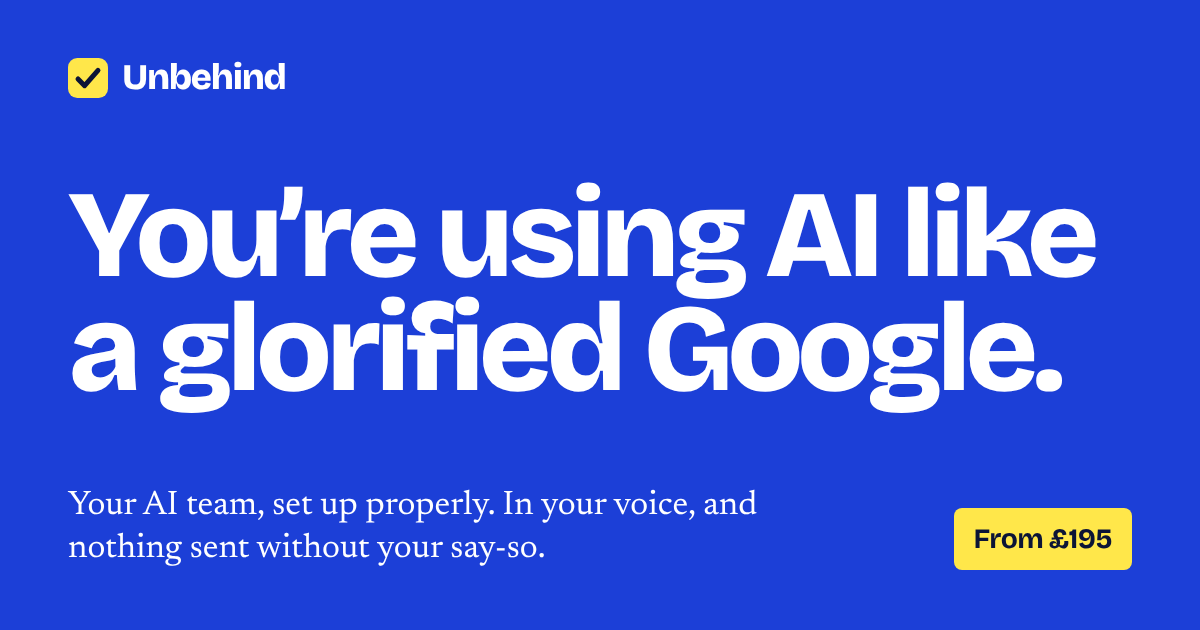
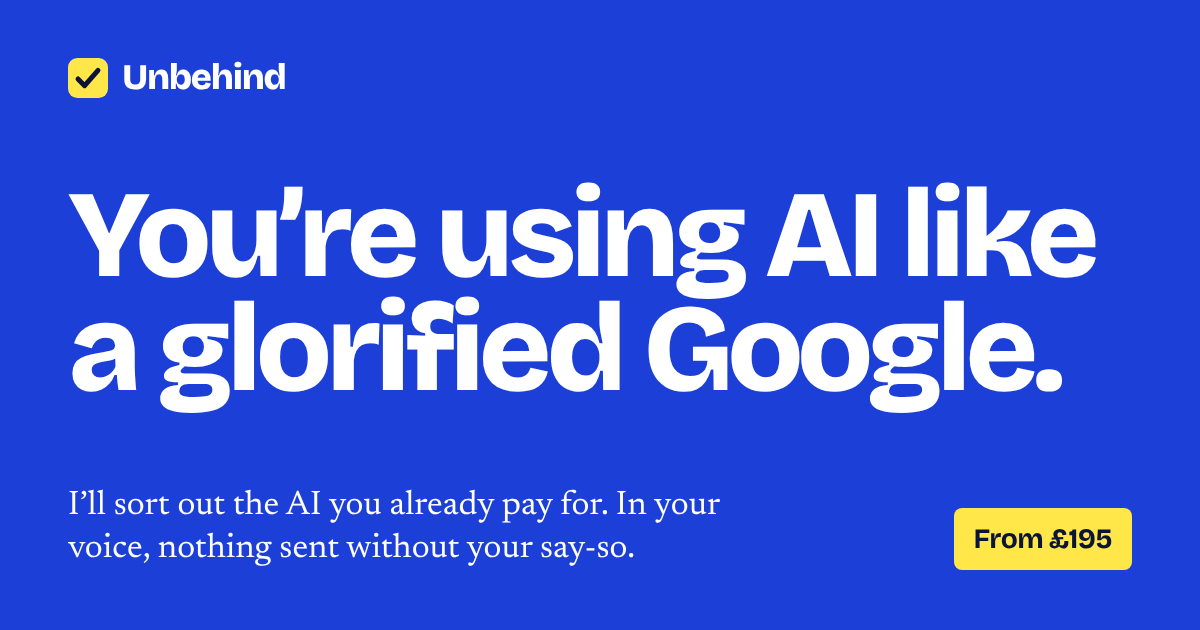
v14.1: lead with the AI people already pay for, cut the page by about a third
- Promise reframed: audit first, set up what the client already owns,
  only add a tool when it earns its subscription
- Roles list, long bio and six of ten FAQs removed; control section
  cut to three points; problems cut to three lines
- Bio trimmed to two paragraphs
- New OG line to match

Claude-Session: https://claude.ai/code/session_01EZ7UPLewCeCGtFvGg8F1Cy

Changed region(s): [[0.0617, 0.7841, 0.6475, 0.9048]]

diff --git a/index.html b/index.html
@@ -3,13 +3,13 @@
 <head>
 <meta charset="UTF-8">
 <meta name="viewport" content="width=device-width, initial-scale=1.0">
-<title>Unbehind - Your AI team, set up properly. From £195.</title>
+<title>Unbehind - I'll sort out the AI you already pay for. From £195.</title>
 
-<meta name="description" content="You're using AI like a glorified Google. I set up a small team of AI assistants on your own accounts: they know your work, draft in your voice, and never send a thing without your say-so. Live inside a week. From £195.">
+<meta name="description" content="You're using AI like a glorified Google. I set up the AI you already pay for so it knows your work, drafts in your voice, and never sends a thing without your say-so. Audit first. From £195.">
 <link rel="canonical" href="https://unbehind.ai">
 
 <meta property="og:title" content="You're using AI like a glorified Google.">
-<meta property="og:description" content="I set up a small team of AI assistants that knows your work, drafts in your voice, and never sends a thing without your say-so. Live inside a week. From £195.">
+<meta property="og:description" content="I'll sort out the AI you already pay for: it knows your work, drafts in your voice, and never sends a thing without your say-so. From £195.">
 <meta property="og:type" content="website">
 <meta property="og:url" content="https://unbehind.ai">
 <meta property="og:image" content="https://unbehind.ai/og.png">
@@ -19,7 +19,7 @@
 
 <meta name="twitter:card" content="summary_large_image">
 <meta name="twitter:title" content="You're using AI like a glorified Google.">
-<meta name="twitter:description" content="Your AI team, set up properly: on your accounts, in your voice, nothing sent without your say-so. From £195.">
+<meta name="twitter:description" content="I'll sort out the AI you already pay for. In your voice, nothing sent without your say-so. From £195.">
 <meta name="twitter:image" content="https://unbehind.ai/og.png">
 
 <meta name="theme-color" content="#1C3FD7">
@@ -404,6 +404,10 @@
     max-width: 30em;
   }
 
+  .control-grid.three { grid-template-columns: repeat(3, minmax(0, 1fr)); gap: 40px 48px; }
+  .covers { margin-top: 48px; padding-top: 28px; border-top: 2px solid var(--ink); max-width: 40em; }
+  .band-wash .questions, .questions { max-width: 860px; }
+
   /* steps */
 
   .steps {
@@ -549,7 +553,7 @@
     .brief-caption { text-align: left; }
     .split { grid-template-columns: 1fr; gap: 28px; }
     .team li { grid-template-columns: 1fr; gap: 8px; padding: 22px 0; }
-    .control-grid { grid-template-columns: 1fr; gap: 30px; }
+    .control-grid, .control-grid.three { grid-template-columns: 1fr; gap: 30px; }
     .steps { grid-template-columns: 1fr; gap: 36px; }
     .steps li::before { font-size: 64px; margin-bottom: 12px; }
     .price { grid-template-columns: 1fr; gap: 14px; padding: 26px 18px; }
@@ -619,12 +623,12 @@
   <header class="hero wrap">
     <div>
       <h1>You&rsquo;re using AI like a glorified Google.</h1>
-      <p class="lead">A few chats a day. The same background typed in again. Good ideas lost in old threads. I set you up with a small team of AI assistants that knows your work, drafts in your voice, and never sends a thing without your say-so.</p>
+      <p class="lead">You already pay for it: ChatGPT, Copilot, Gemini, Claude. I set up what you&rsquo;ve got so it knows your work, drafts in your voice, and never sends a thing without your say-so.</p>
       <div class="hero-actions">
         <a href="https://calendly.com/james-harrop/30min" target="_blank" rel="noopener" class="btn btn-yellow" id="hero-cta">Book a free call</a>
         <a href="#pricing" class="text-link">See the prices</a>
       </div>
-      <p class="hero-note">Fifteen minutes is usually enough. I&rsquo;ll share my screen and show you my own set-up, then tell you whether it&rsquo;s worth doing for you.</p>
+      <p class="hero-note">Free. Fifteen minutes is usually enough, and I&rsquo;ll tell you if you don&rsquo;t need me.</p>
     </div>
 
     <div class="brief-holder">
@@ -668,7 +672,7 @@
           </div>
         </div>
       </section>
-      <p class="brief-caption">An example. Go on, press one. Nothing goes until you do.</p>
+      <p class="brief-caption">What a good set-up hands you each morning. Go on, press one.</p>
     </div>
   </header>
 </div>
@@ -679,83 +683,49 @@
     <div class="wrap">
       <h2>Sound familiar?</h2>
       <ul class="familiar">
-        <li>Forty chats, and none of them knows about the others.</li>
+        <li>You pay for AI every month and use it like a search box.</li>
         <li>You explain who you are and what you do. Again.</li>
-        <li>You had a good idea on Tuesday. It&rsquo;s in a thread somewhere.</li>
-        <li>The tools can now read your inbox and reply from it. Which is exactly why you haven&rsquo;t switched them on.</li>
-        <li>It writes perfectly well. It just doesn&rsquo;t sound like you.</li>
+        <li>It can read your inbox now. Which is exactly why you haven&rsquo;t switched it on.</li>
       </ul>
-      <p class="turn">The tools got good. The hard part now is the set-up.</p>
-      <p class="lead">Which ones, connected to what, allowed to do what, in whose voice. That&rsquo;s the part I do.</p>
+      <p class="turn">You probably don&rsquo;t need another tool. You need the ones you&rsquo;ve got set up properly.</p>
     </div>
   </section>
 
-  <section class="band band-wash">
-    <div class="wrap split">
-      <h2>Anyone can sell you an AI tool. I&rsquo;ll make it work on a wet Tuesday.</h2>
-      <div class="prose">
-        <p>I run my own working week through a team of AI assistants. A chief of staff coordinates the rest: inbox, diary, research, money, home. They draft. I approve. Nothing goes out without me. I&rsquo;ll show you the whole thing live on our first call.</p>
-        <p>Before this I spent years making brands sound like themselves, at Saatchi &amp; Saatchi and Fallon, and then for businesses of my own. That matters more than you&rsquo;d think. Everyone now has the same tools. The difference is whether yours sounds like you, or like everyone else&rsquo;s robot.</p>
-        <p class="aside">Built by me and live now: <a href="https://adhouse.ai" target="_blank" rel="noopener">adhouse.ai</a>, an AI ad studio. Brief in, finished Meta ads out.</p>
-      </div>
-    </div>
-  </section>
-
-  <section class="band" id="team">
+  <section class="band band-wash" id="how">
     <div class="wrap">
-      <h2>Start with one. Add the rest when you trust the first.</h2>
-      <ul class="team">
+      <h2>Audit first. Then only what&rsquo;s worth doing.</h2>
+      <ol class="steps">
         <li>
-          <h3>Chief of staff</h3>
-          <p>Holds your priorities, ideas and follow-ups in one place. A brief each morning, a round-up each evening, and one live action list instead of nine.</p>
+          <h3>Audit</h3>
+          <p>I look at what you already pay for and how you really use it. Sometimes the answer is keep what you&rsquo;ve got and cancel two subscriptions.</p>
         </li>
         <li>
-          <h3>Inbox assistant</h3>
-          <p>Sorts what needs you from what doesn&rsquo;t and drafts the replies in your voice. You press send.</p>
+          <h3>Set up</h3>
+          <p>Inside a week, on your own accounts: what it knows about your work, what it drafts, and what it must ask you first. Plus a voice guide, so it sounds like you.</p>
         </li>
         <li>
-          <h3>Follow-up chaser</h3>
-          <p>Spots the leads, quotes and invoices that have gone quiet and drafts the nudge. You approve it.</p>
+          <h3>Hand over</h3>
+          <p>A call on your real inbox and to-do list, not a demo. Two weeks later we tune whatever isn&rsquo;t earning its keep.</p>
         </li>
-        <li>
-          <h3>Proposal writer</h3>
-          <p>Turns your call notes into a first-draft quote or proposal, in your format, while the call is still fresh.</p>
-        </li>
-        <li>
-          <h3>Onboarding coordinator</h3>
-          <p>Welcome email, forms and checklist for every new client, ready for you to check and send.</p>
-        </li>
-      </ul>
-      <p class="team-note">Every assistant comes with a job description, a voice guide and a set of rules. All written down. All yours.</p>
+      </ol>
+      <p class="covers">It usually covers your inbox, follow-ups on quotes and invoices, proposals, and one place for your ideas and to-dos. I&rsquo;m not tied to any tool and I take no commission, so if the best answer is the one you already own, that&rsquo;s what you&rsquo;ll hear.</p>
     </div>
   </section>
 
   <section class="band band-blue on-blue" id="control">
     <div class="wrap">
       <h2>It asks before it acts.</h2>
-      <ul class="control-grid">
+      <ul class="control-grid three">
         <li>
           <h3>Draft-only by default</h3>
-          <p>Your assistants prepare. You press send. Nothing leaves without your approval.</p>
+          <p>It prepares. You press send. Nothing leaves without your approval.</p>
         </li>
         <li>
           <h3>Your accounts, your data</h3>
-          <p>Everything lives on your logins. If we part ways, you keep the lot.</p>
+          <p>Everything lives on your logins, and we agree first what it must never see. If in doubt, it&rsquo;s out.</p>
         </li>
         <li>
-          <h3>Sensitive stuff stays out</h3>
-          <p>Before anything is connected, we decide what it must never see: client records, patient notes, anything covered by someone else&rsquo;s rules. If in doubt, it&rsquo;s out.</p>
-        </li>
-        <li>
-          <h3>Permissions set to &ldquo;always ask&rdquo;</h3>
-          <p>You widen them when you&rsquo;re ready, not before.</p>
-        </li>
-        <li>
-          <h3>A monthly access check</h3>
-          <p>On Care, I go through what each assistant can see and do, in plain English, so nothing creeps.</p>
-        </li>
-        <li>
-          <h3>An off switch you know how to use</h3>
+          <h3>An off switch you can use</h3>
           <p>I show you how to disconnect everything yourself.</p>
         </li>
       </ul>
@@ -763,46 +733,26 @@
     </div>
   </section>
 
-  <section class="band" id="how">
-    <div class="wrap">
-      <h2>Three steps. One week.</h2>
-      <ol class="steps">
-        <li>
-          <h3>Pick</h3>
-          <p>A free call. You tell me where the week goes. I tell you which assistant to start with, or that you don&rsquo;t need me.</p>
-        </li>
-        <li>
-          <h3>Set up</h3>
-          <p>Inside seven days I build your team on your own accounts: what each assistant does, what it can see, and what it has to ask you first. You get a recorded walkthrough of everything.</p>
-        </li>
-        <li>
-          <h3>Hand over</h3>
-          <p>A 60 to 90 minute call, working on your real inbox and your real to-do list, not a demo. Two weeks later we tune whatever isn&rsquo;t earning its keep.</p>
-        </li>
-      </ol>
-    </div>
-  </section>
-
   <span id="offer"></span>
-  <section class="band band-wash" id="pricing">
+  <section class="band" id="pricing">
     <div class="wrap">
       <h2>Fixed prices. No day rates, no decks.</h2>
       <ul class="prices">
         <li class="price">
           <div>
             <h3>The Sort-out</h3>
-            <p class="who">If you&rsquo;re curious but not sure where to start.</p>
+            <p class="who">The audit on its own. A good place to start.</p>
           </div>
-          <p class="what">Ninety minutes on a call. We look at how you use AI now, choose the right tools, and map your first three assistants. You get a written plan within 24 hours. Go ahead with a set-up inside 14 days and the &pound;195 comes off the price.</p>
+          <p class="what">Ninety minutes on a call, then a written plan within 24 hours: what to keep, what to cancel, what to set up. Go ahead within 14 days and the &pound;195 comes off the price.</p>
           <p class="cost">&pound;195</p>
         </li>
         <li class="price is-main">
           <div>
             <h3>Solo Set-up</h3>
-            <p class="who">For solo professionals and owner-operators. Where most people start.</p>
+            <p class="who">For solo professionals and owner-operators.</p>
           </div>
           <div class="what">
-            <p>A chief of staff and up to two specialists, on your accounts. Your voice guide. Your rules. Your scattered notes and ideas pulled into one place. Handover on real work, a tune-up after two weeks, and free fixes for 30 days. Live inside a week.</p>
+            <p>The audit, the set-up on your accounts, your voice guide and your rules. Handover on real work, a tune-up after two weeks, and free fixes for 30 days. Live inside a week.</p>
             <p class="founding">Founding rate: the first five clients pay &pound;750.</p>
           </div>
           <p class="cost">&pound;950</p>
@@ -810,93 +760,62 @@
         <li class="price">
           <div>
             <h3>Team Set-up</h3>
-            <p class="who">For owner-run firms of up to about 15 people.</p>
+            <p class="who">For owner-run firms of up to about 15.</p>
           </div>
-          <p class="what">Set-up for up to five people, shared rules and a shared voice, assistants for the work you share, and a plain-English map of who and what can see what.</p>
+          <p class="what">The same for up to five people, with shared rules, a shared voice, and a plain-English map of who and what can see what.</p>
           <p class="cost">&pound;2,400 <small>and up, by size</small></p>
         </li>
         <li class="price">
           <div>
             <h3>Care</h3>
-            <p class="who">For after your set-up. Cancel any time.</p>
+            <p class="who">After your set-up. Cancel any time.</p>
           </div>
-          <p class="what">The tools change every few weeks. I keep yours current: a monthly access check, tune-ups, one new assistant or improvement a month, and a message away when you&rsquo;re stuck.</p>
+          <p class="what">The tools change every few weeks. I keep yours current, check what it can see each month, and I&rsquo;m a message away when you&rsquo;re stuck.</p>
           <p class="cost">&pound;150 <small>a month solo, &pound;350 a month for teams</small></p>
         </li>
       </ul>
 
-      <div class="price-notes">
-        <p>You pay for the AI tools themselves direct. I take no commission from any of them, and I&rsquo;ll tell you the cost before you commit.</p>
-        <p>Need more than this? I work as an embedded AI lead for two firms at a time, from &pound;2,000 a month. Ask on the call.</p>
-      </div>
-
       <div class="price-cta">
         <a href="https://calendly.com/james-harrop/30min" target="_blank" rel="noopener" class="btn btn-blue">Book a free call</a>
-        <span>The call is free. If it&rsquo;s not a fit, I&rsquo;ll say so before we hang up.</span>
+        <span>You pay for the tools direct. The call is free, and if it&rsquo;s not a fit I&rsquo;ll say so.</span>
       </div>
     </div>
   </section>
 
-  <section class="band">
+  <section class="band band-wash">
     <div class="wrap split">
       <h2>Hello, I&rsquo;m James.</h2>
       <div class="prose">
-        <p>I trained as an art director at Watford and worked at Saatchi &amp; Saatchi and Fallon. Then I started things: Eddie Harrop, a luxury accessories brand sold through Net-A-Porter and featured in five editions of Vogue, and Minderful, a workplace wellbeing app that was Apple&rsquo;s App of the Day, raised &pound;1m, and counted PwC, Barclaycard and Dell among its customers. Most recently I was the first employee at a venture-backed AI start-up.</p>
-        <p>A year or so ago I couldn&rsquo;t write a for-loop. Since then I&rsquo;ve built and shipped my own products with AI, and I now run my working week through a team of AI assistants.</p>
-        <p>I&rsquo;m not a computer scientist. I&rsquo;m a brand person who got obsessed. That turns out to be useful: I can make this stuff work, and I can make it sound like you.</p>
-        <p>Based in London, working across the UK by video. There&rsquo;s one of me, so I take on a handful of set-ups a month.</p>
+        <p>I trained as an art director and worked at Saatchi &amp; Saatchi and Fallon, then founded two businesses: Eddie Harrop, sold through Net-A-Porter, and Minderful, Apple&rsquo;s App of the Day. Most recently I was the first employee at a venture-backed AI start-up.</p>
+        <p>I&rsquo;m not a computer scientist. I&rsquo;m a brand person who got obsessed, and I now run my own working week through AI. I&rsquo;ll show you on the call. It means I can make this stuff work, and make it sound like you.</p>
         <p class="signoff">
           <a href="https://jamesharrop.co" target="_blank" rel="noopener" class="text-link">jamesharrop.co</a>
-          <a href="mailto:jamesharrop@gmail.com" class="text-link">jamesharrop@gmail.com</a>
+          <a href="https://adhouse.ai" target="_blank" rel="noopener" class="text-link">adhouse.ai, my AI ad studio</a>
         </p>
       </div>
     </div>
   </section>
 
   <span id="faq"></span>
-  <section class="band band-wash" id="questions">
+  <section class="band" id="questions">
     <div class="wrap">
       <h2>What you&rsquo;re probably thinking.</h2>
       <div class="questions">
         <details>
           <summary>Can&rsquo;t I just set this up myself?</summary>
-          <p>Yes, if you&rsquo;ve got a spare weekend and you like tinkering. The tools are built for it. You&rsquo;re paying me for the weekend, plus the parts that are easy to get wrong: what it&rsquo;s allowed to see, what it&rsquo;s allowed to send, and whether it sounds like you. If you&rsquo;d be better off doing it yourself, I&rsquo;ll tell you that on the call.</p>
+          <p>Yes, if you&rsquo;ve got a spare weekend and you like tinkering. You&rsquo;re paying me for the weekend, plus the parts that are easy to get wrong: what it&rsquo;s allowed to see, what it&rsquo;s allowed to send, and whether it sounds like you. If you&rsquo;d be better off doing it yourself, I&rsquo;ll tell you that on the call.</p>
         </details>
         <details>
-          <summary>What can it see?</summary>
-          <p>Only what we connect, and we decide that together before anything is switched on. You get the list in writing.</p>
+          <summary>Which tools do you use?</summary>
+          <p>Yours, to begin with. Most people already pay for more than they use. I only suggest something new when it clearly earns its subscription, and I&rsquo;ll tell you the cost before you commit.</p>
         </details>
         <details>
           <summary>I handle confidential information. Is this for me?</summary>
-          <p>Often yes, with a firm line drawn first. Client records, patient data and anything covered by professional or regulatory rules stay out. I&rsquo;m not a lawyer or a data protection officer, so if you answer to a regulator or an employer, check the set-up with them. I&rsquo;ll give you a plain summary to show them.</p>
+          <p>Often yes, with a firm line drawn first. Client records, patient data and anything covered by professional rules stay out. I&rsquo;m not a lawyer or a data protection officer, so if you answer to a regulator or an employer, check the set-up with them. I&rsquo;ll give you a plain summary to show them.</p>
         </details>
         <details>
           <summary>I&rsquo;m not technical.</summary>
           <p>Good. Neither are most of the people this is for. If you can write an email, you can run this.</p>
-        </details>
-        <details>
-          <summary>Which tools do you use?</summary>
-          <p>Whichever fit how you work. I&rsquo;m not tied to any of them and I take no commission. You pay the subscription direct, and I&rsquo;ll tell you the cost before you commit.</p>
-        </details>
-        <details>
-          <summary>What happens when the tools change?</summary>
-          <p>They will, probably next month. That&rsquo;s what Care is for. If you&rsquo;d rather look after it yourself, your handover notes show you how.</p>
-        </details>
-        <details>
-          <summary>Who owns it all?</summary>
-          <p>You do. Your accounts, your assistants, your voice guide, your rules.</p>
-        </details>
-        <details>
-          <summary>Do you work with teams?</summary>
-          <p>Yes, up to about 15 people. Beyond that I&rsquo;m probably not your person, and I&rsquo;ll say so.</p>
-        </details>
-        <details>
-          <summary>Why these prices?</summary>
-          <p>A consultant charges more to tell you what to do. I&rsquo;d rather charge less and do it.</p>
-        </details>
-        <details>
-          <summary>Do you do marketing as well?</summary>
-          <p>Yes, separately. For ads, launches and brand work, see <a href="https://adhouse.ai" target="_blank" rel="noopener">adhouse.ai</a>.</p>
         </details>
       </div>
     </div>
@@ -905,10 +824,10 @@
   <section class="band band-yellow on-yellow closing" id="book">
     <div class="wrap">
       <h2>See it working before you spend a penny.</h2>
-      <p class="lead">A free call. I&rsquo;ll share my screen, show you my own AI team at work, and tell you straight whether it&rsquo;s worth doing for you. Fifteen minutes is usually enough.</p>
+      <p class="lead">A free call. I&rsquo;ll share my screen, show you my own set-up, and tell you straight whether it&rsquo;s worth doing for you.</p>
       <div class="closing-actions">
         <a href="https://calendly.com/james-harrop/30min" target="_blank" rel="noopener" class="btn btn-ink" id="closing-cta">Book a free call</a>
-        <a href="mailto:jamesharrop@gmail.com?subject=Unbehind%20set-up&body=Hi%20James%2C%0A%0AWhat%20I%20do%3A%0A%0AWhere%20my%20week%20goes%3A%0A%0A" class="text-link">Or send me an email</a>
+        <a href="mailto:jamesharrop@gmail.com?subject=Unbehind%20set-up&body=Hi%20James%2C%0A%0AWhat%20I%20do%3A%0A%0AWhat%20AI%20I%20already%20pay%20for%3A%0A%0A" class="text-link">Or send me an email</a>
       </div>
     </div>
   </section>
@@ -921,7 +840,7 @@
 </footer>
 
 <div class="callbar" id="callbar">
-  <span>Free call. See my set-up live.</span>
+  <span>Free call. 15 minutes.</span>
   <a href="https://calendly.com/james-harrop/30min" target="_blank" rel="noopener" class="btn btn-yellow">Book a free call</a>
 </div>
 

diff --git a/og-generator.html b/og-generator.html
@@ -79,7 +79,7 @@
     </div>
     <div class="headline">You&rsquo;re using AI like a glorified Google.</div>
     <div class="foot">
-      <div class="line">Your AI team, set up properly. In your voice, and nothing sent without your say-so.</div>
+      <div class="line">I&rsquo;ll sort out the AI you already pay for. In your voice, nothing sent without your say-so.</div>
       <div class="tag">From &pound;195</div>
     </div>
   </div>
